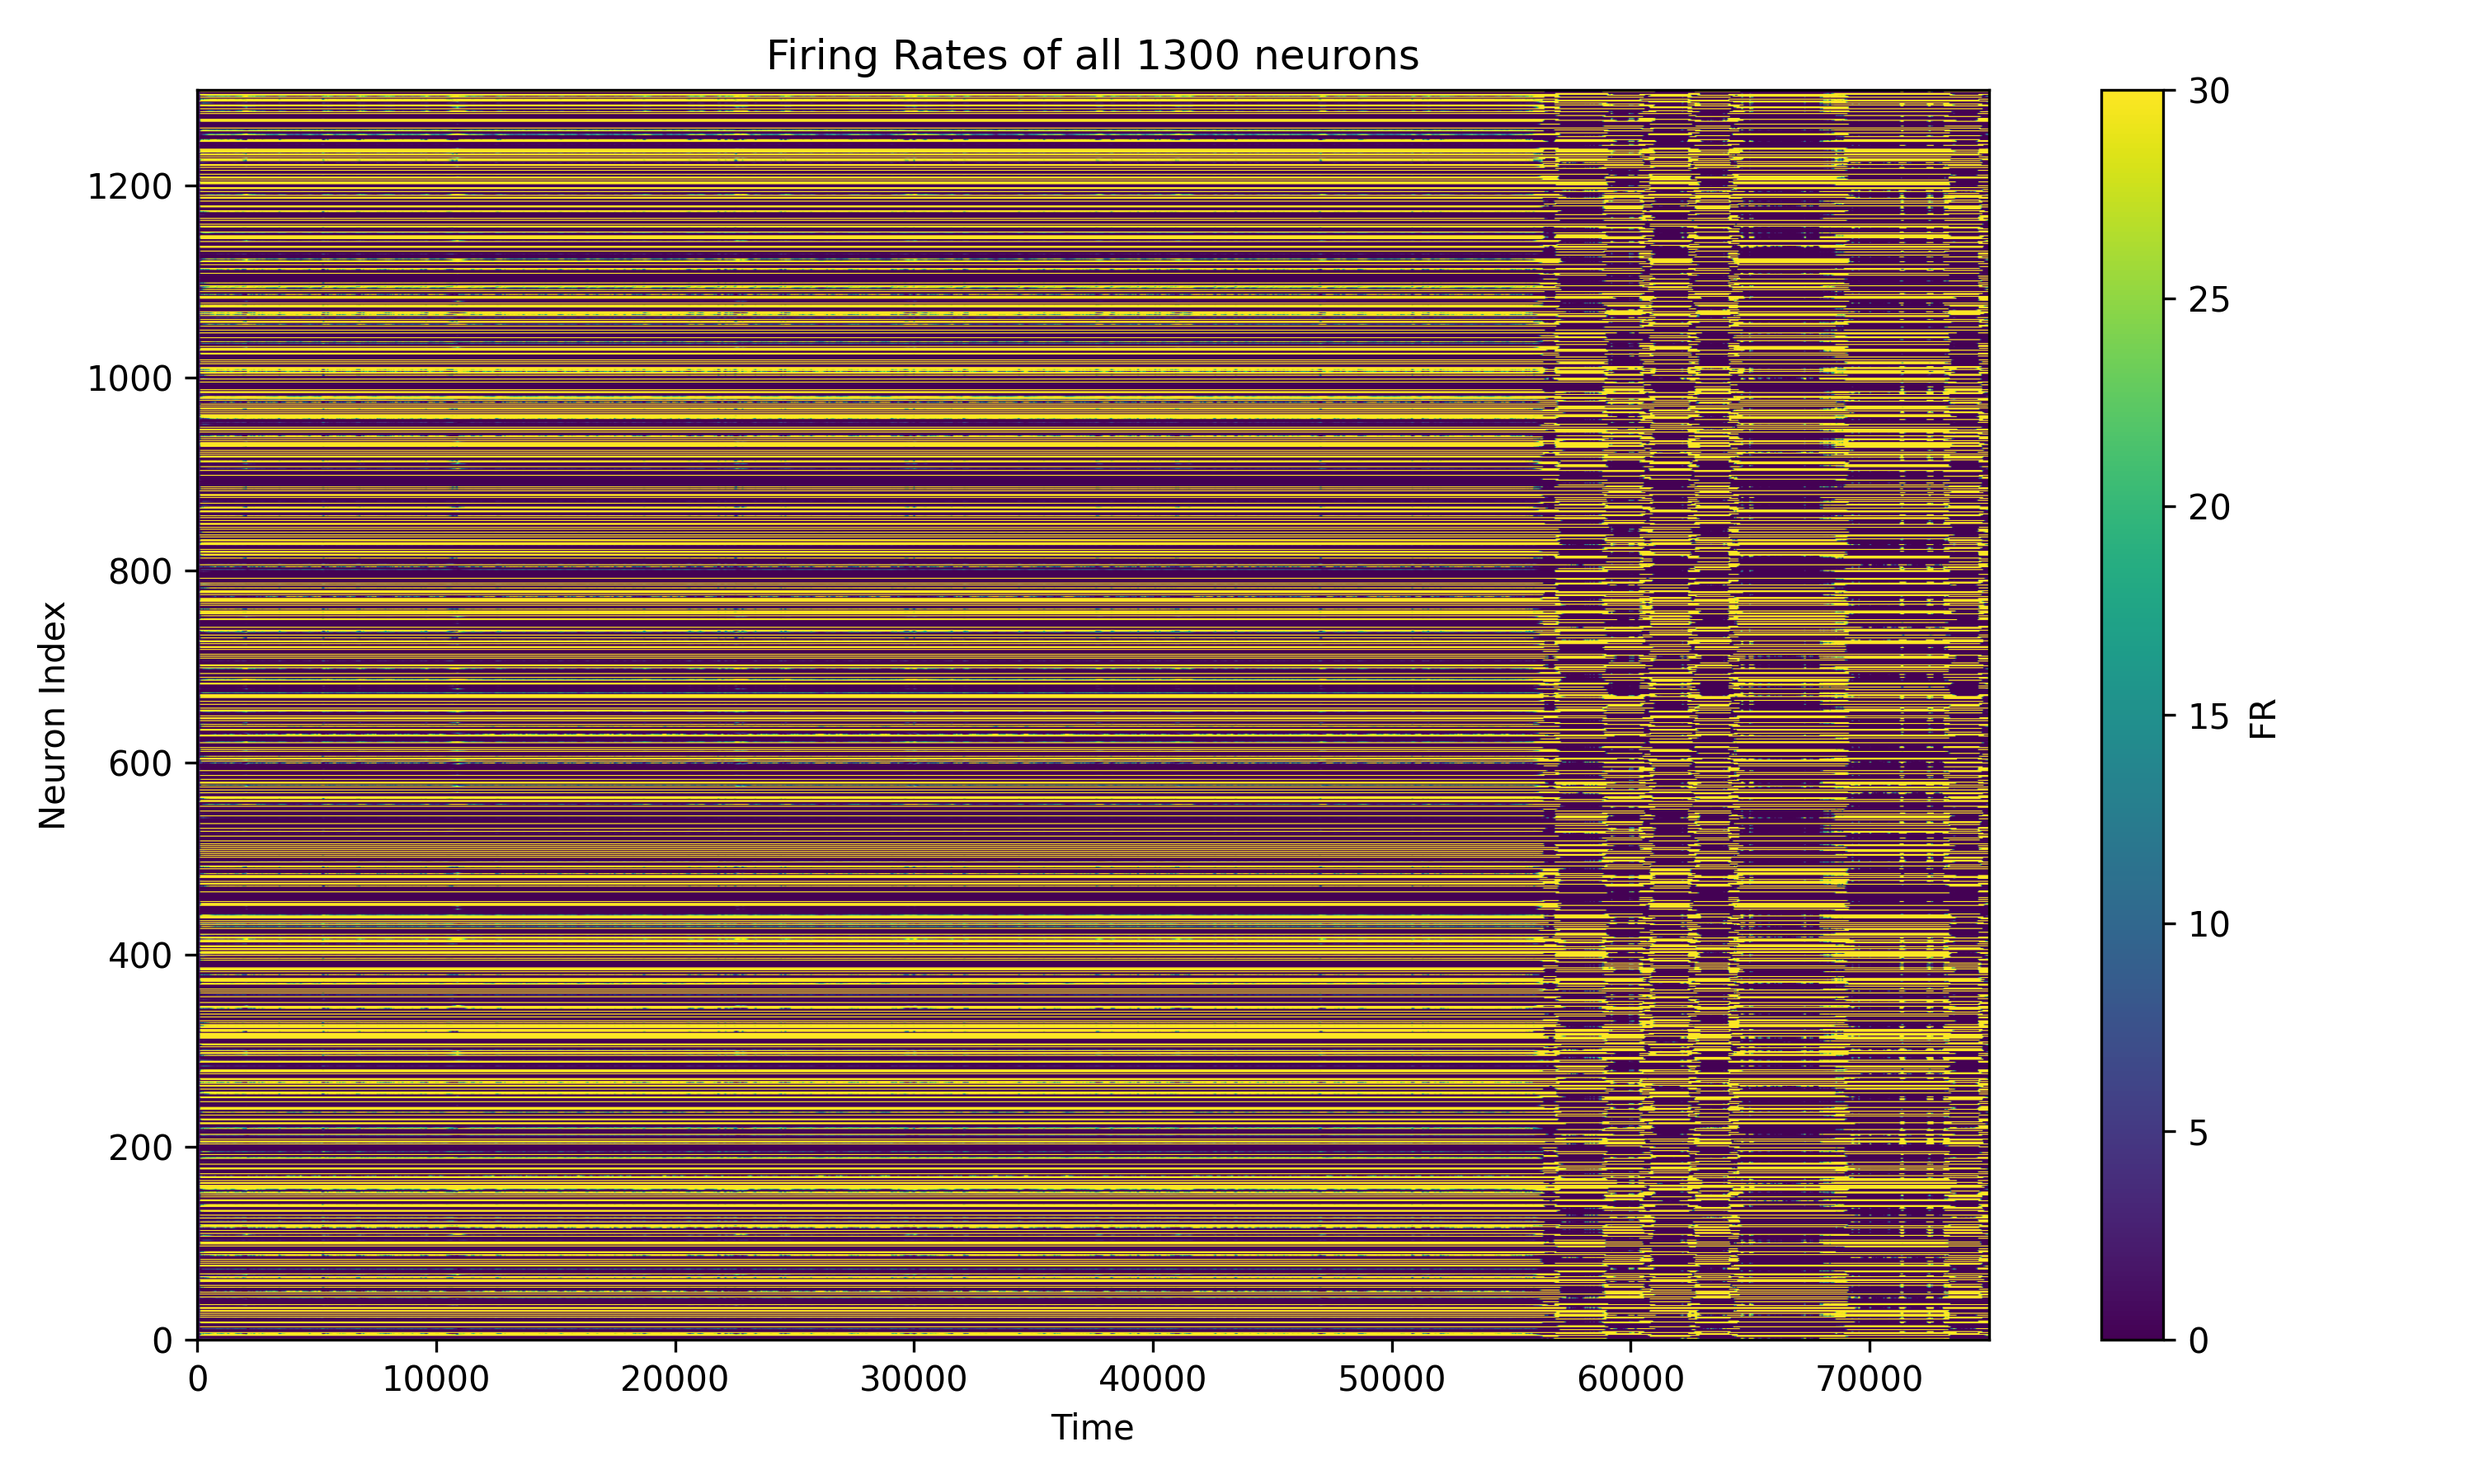
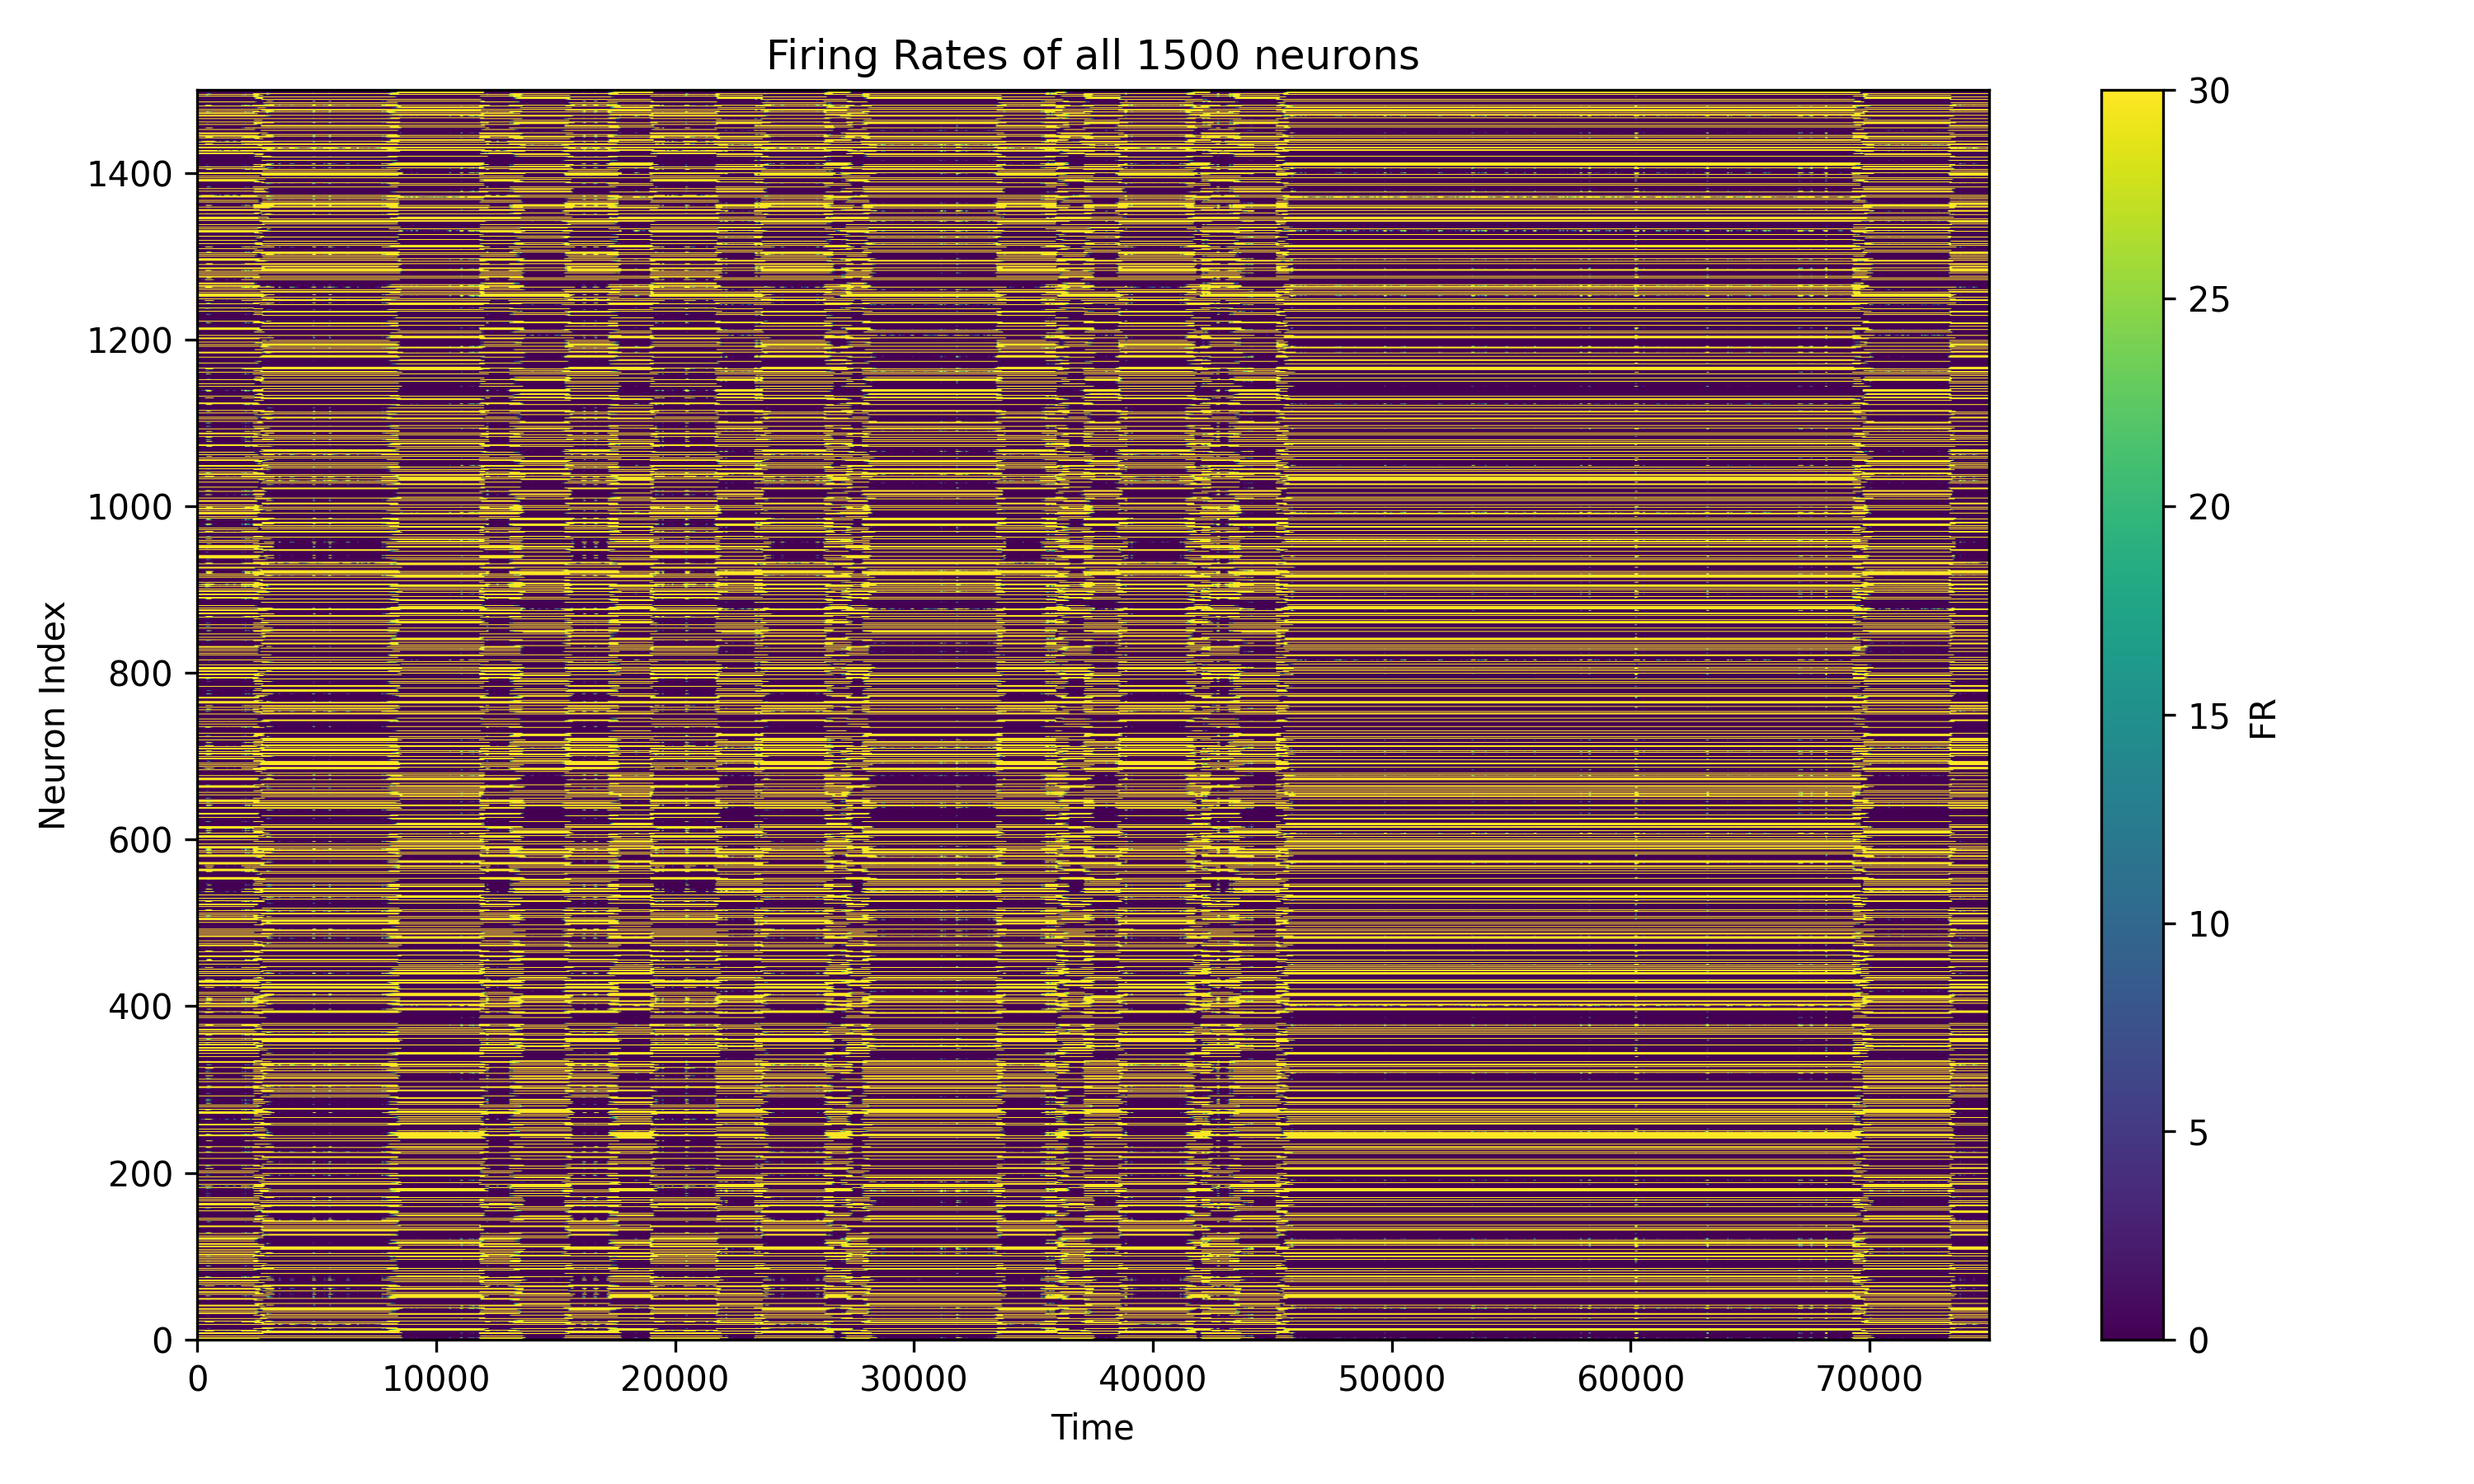
no tanh

diff --git a/src/parameters.py b/src/parameters.py
@@ -13,7 +13,7 @@ import os
 from scipy.__config__ import show
 
 # Network size and pattern parameters
-N = 1300               # Number of neurons (increased for Numba testing)
+N = 1500               # Number of neurons (increased for Numba testing)
 p = 4                 # Number of patterns for symmetric component
 q = 4                  # Number of patterns for asymmetric component (q <= p)
 c = 0.1                # Connection probability (0-1) for Erdős-Rényi model
@@ -95,7 +95,7 @@ single_dir_name = "simulation_results"
 multiple_dir_name = "multiple_simulations"
 
 # Number of runs
-runs = 8
+runs = 10
 
 # =============================================================================
 # SEED

diff --git a/src/main.py b/src/main.py
@@ -570,7 +570,7 @@ def multiple_simulations():
     np.save(os.path.join(npy_dir, "connectivity_asymmetric.npy"), W_A)
     np.save(os.path.join(npy_dir, "phi_memory_patterns.npy"), phi_eta)
 
-    for seed_index in range(5, runs):  # Run 5 different simulations
+    for seed_index in range(8, runs):  # Run multiple simulations
         # transform the number of the seed into a string called addition
         addition = str(seed_index)
         single_simulation(addition, W_S, W_A_sim, W, eta, phi_eta, t_span, ou_params, seed=seed_index, verbose=verbose)

diff --git a/src/modules/connectivity.py b/src/modules/connectivity.py
@@ -6,7 +6,7 @@ import numpy as np
 import matplotlib.pyplot as plt
 import seaborn as sns
 from matplotlib.colors import TwoSlopeNorm
-from modules.activation import tanh_function, threshold_function, relu_function, sigmoid_function, step_function
+from modules.activation import threshold_function, relu_function, sigmoid_function, step_function
 
 
 def _enforce_correlation_constraint(eta_patterns, max_correlation, alpha, pattern_mean, pattern_sigma, max_iterations=100):

diff --git a/src/modules/dynamics.py b/src/modules/dynamics.py
@@ -8,7 +8,7 @@ import matplotlib.pyplot as plt
 from sympy import use
 
 # Import activation functions from connectivity module
-from modules.activation import tanh_function, sigmoid_function, relu_function, threshold_function
+from modules.activation import sigmoid_function, relu_function, threshold_function
 
 # ================================================================
 # Ornstein-Uhlenbeck process simulation

diff --git a/src/modules/activation.py b/src/modules/activation.py
@@ -3,9 +3,6 @@ modules/activation.py contains activation functions used in the neural network d
 """
 import numpy as np
 
-def tanh_function(x, amplitude=1.0, beta=1.0):
-  """Hyperbolic tangent function with adjustable amplitude and steepness"""
-  return amplitude * np.tanh(beta * x)
 
 def threshold_function(x, amplitude=1.0):
   """Step/threshold function"""
